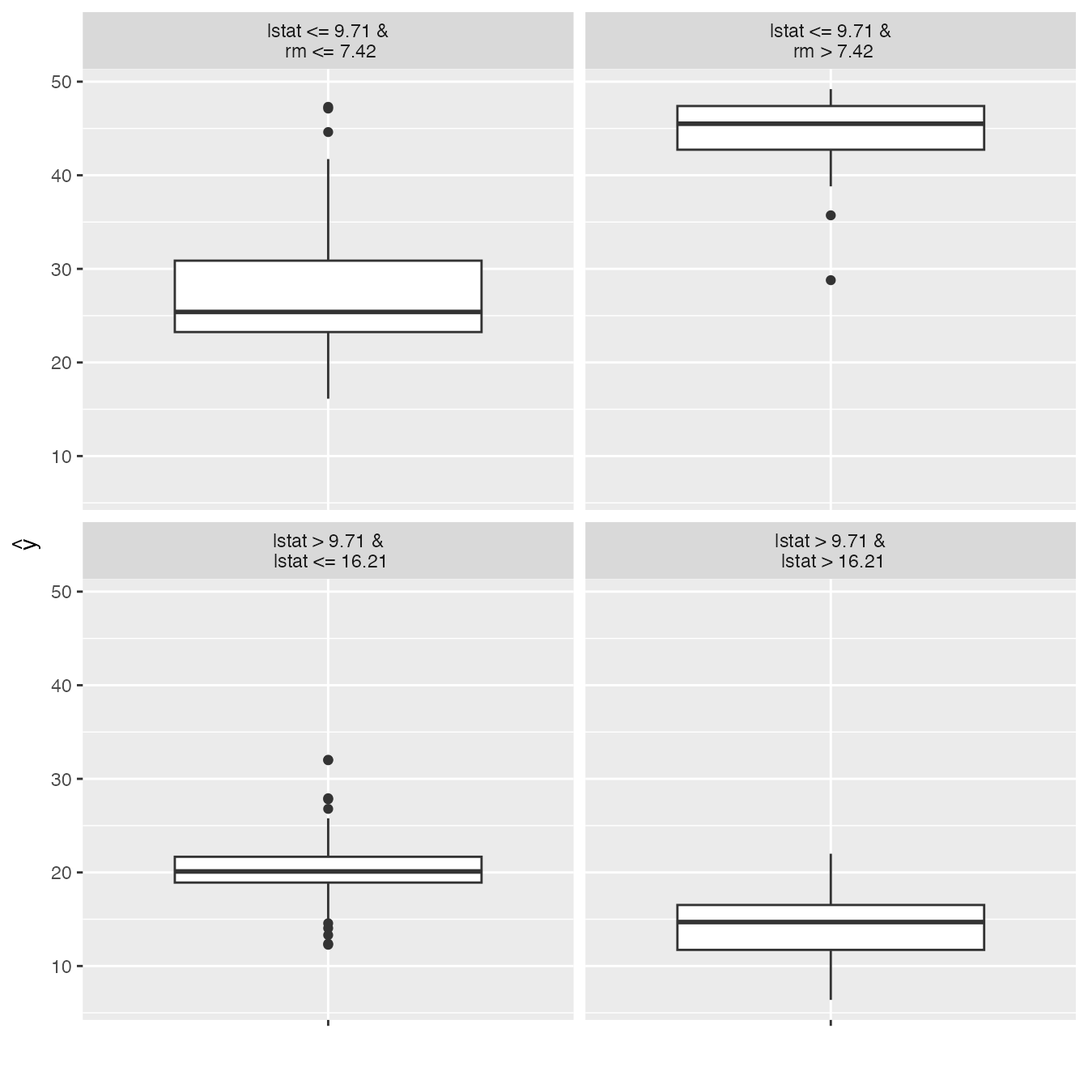
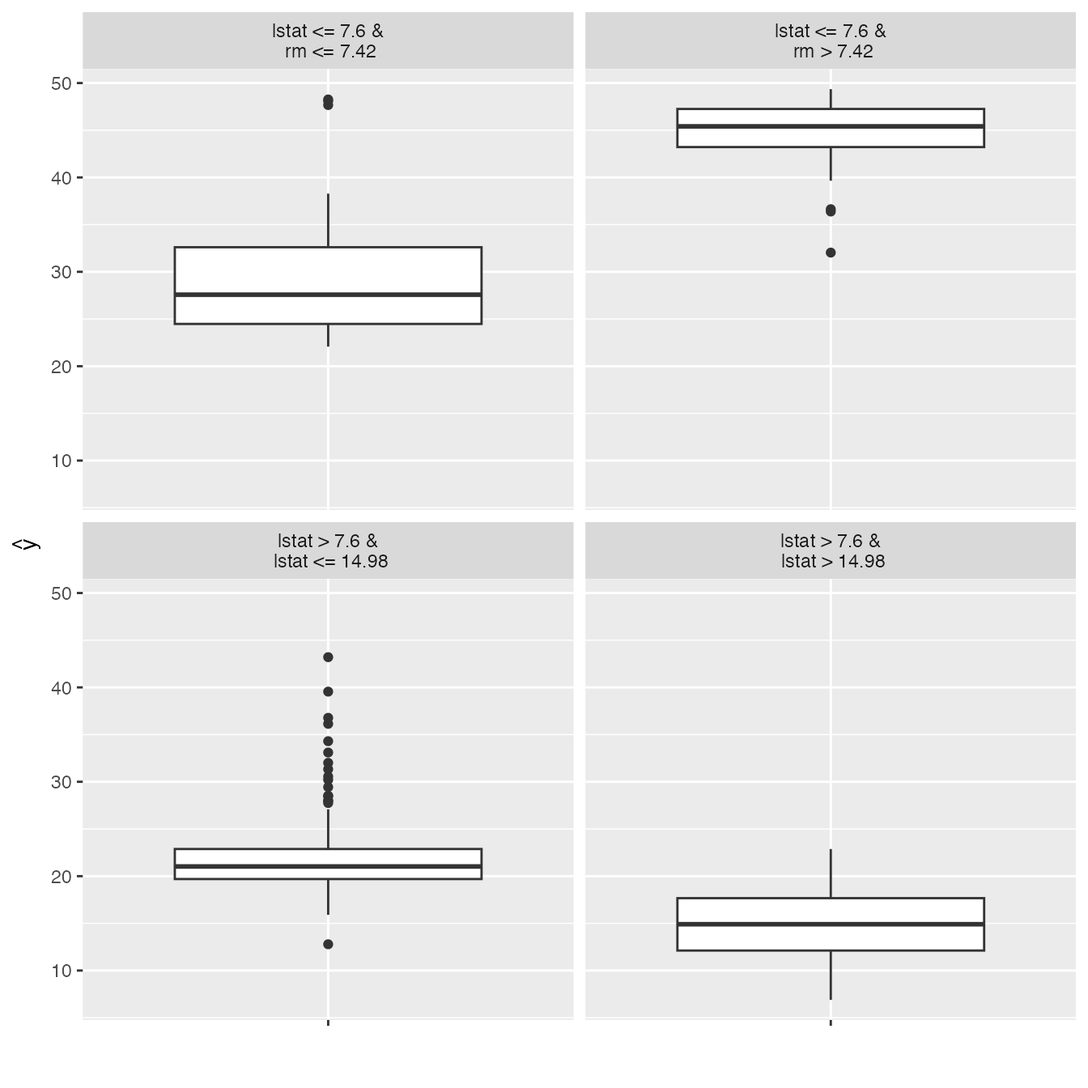
Deploy from Github Actions build 8472959351 [ci skip]
Build URL: https://github.com/christophM/iml/actions/runs/8472959351
Commit: e39a5adad74f868b95115bfc19daf473714562fc

diff --git a/articles/intro.html b/articles/intro.html
@@ -148,7 +148,7 @@ value:</p>
 <span><span class="kw"><a href="https://rdrr.io/r/base/library.html" class="external-link">library</a></span><span class="op">(</span><span class="st"><a href="https://christophm.github.io/iml/" class="external-link">"iml"</a></span><span class="op">)</span></span>
 <span><span class="kw"><a href="https://rdrr.io/r/base/library.html" class="external-link">library</a></span><span class="op">(</span><span class="st"><a href="https://www.stat.berkeley.edu/~breiman/RandomForests/" class="external-link">"randomForest"</a></span><span class="op">)</span></span>
 <span><span class="fu"><a href="https://rdrr.io/r/utils/data.html" class="external-link">data</a></span><span class="op">(</span><span class="st">"Boston"</span>, package <span class="op">=</span> <span class="st">"MASS"</span><span class="op">)</span></span>
-<span><span class="va">rf</span> <span class="op">&lt;-</span> <span class="fu"><a href="https://rdrr.io/pkg/randomForest/man/randomForest.html" class="external-link">randomForest</a></span><span class="op">(</span><span class="va">medv</span> <span class="op">~</span> <span class="va">.</span>, data <span class="op">=</span> <span class="va">Boston</span>, ntree <span class="op">=</span> <span class="fl">50</span><span class="op">)</span></span></code></pre></div>
+<span><span class="va">rf</span> <span class="op">&lt;-</span> <span class="fu"><a href="https://rdrr.io/pkg/randomForest/man/randomForest.html" class="external-link">randomForest</a></span><span class="op">(</span><span class="va">medv</span> <span class="op">~</span> <span class="va">.</span>, data <span class="op">=</span> <span class="va">Boston</span>, ntree <span class="op">=</span> <span class="fl">10</span><span class="op">)</span></span></code></pre></div>
 </div>
 <div class="section level2">
 <h2 id="using-the-iml-predictor-container">Using the iml Predictor() container<a class="anchor" aria-label="anchor" href="#using-the-iml-predictor-container"></a>
@@ -181,19 +181,19 @@ data.frame.</p>
 <div class="sourceCode" id="cb6"><pre class="downlit sourceCode r">
 <code class="sourceCode R"><span><span class="va">imp</span><span class="op">$</span><span class="va">results</span></span></code></pre></div>
 <pre><code><span><span class="co">#&gt;    feature importance.05 importance importance.95 permutation.error</span></span>
-<span><span class="co">#&gt; 1    lstat      4.394480   4.459282      4.740041          4.394662</span></span>
-<span><span class="co">#&gt; 2       rm      3.349928   3.620192      3.715445          3.567732</span></span>
-<span><span class="co">#&gt; 3      nox      1.772047   1.796058      1.833039          1.770032</span></span>
-<span><span class="co">#&gt; 4     crim      1.661024   1.703701      1.738660          1.679013</span></span>
-<span><span class="co">#&gt; 5      dis      1.670726   1.690742      1.694655          1.666242</span></span>
-<span><span class="co">#&gt; 6  ptratio      1.423169   1.426636      1.443533          1.405963</span></span>
-<span><span class="co">#&gt; 7    indus      1.399432   1.416183      1.434735          1.395661</span></span>
-<span><span class="co">#&gt; 8      age      1.346887   1.387961      1.423804          1.367848</span></span>
-<span><span class="co">#&gt; 9      tax      1.352382   1.376506      1.384641          1.356559</span></span>
-<span><span class="co">#&gt; 10   black      1.227135   1.234735      1.235719          1.216842</span></span>
-<span><span class="co">#&gt; 11     rad      1.097253   1.109357      1.131675          1.093281</span></span>
-<span><span class="co">#&gt; 12      zn      1.035018   1.042360      1.043935          1.027256</span></span>
-<span><span class="co">#&gt; 13    chas      1.032211   1.035745      1.047224          1.020736</span></span></code></pre>
+<span><span class="co">#&gt; 1    lstat      3.996140   4.135837      4.317803          4.788590</span></span>
+<span><span class="co">#&gt; 2       rm      2.685506   2.715282      2.889989          3.143832</span></span>
+<span><span class="co">#&gt; 3  ptratio      1.666459   1.728166      1.745227          2.000920</span></span>
+<span><span class="co">#&gt; 4      dis      1.612628   1.667092      1.699770          1.930207</span></span>
+<span><span class="co">#&gt; 5      nox      1.504569   1.576274      1.581755          1.825055</span></span>
+<span><span class="co">#&gt; 6     crim      1.509768   1.545514      1.611800          1.789441</span></span>
+<span><span class="co">#&gt; 7    indus      1.297713   1.337473      1.356928          1.548565</span></span>
+<span><span class="co">#&gt; 8      age      1.279583   1.302343      1.346693          1.507890</span></span>
+<span><span class="co">#&gt; 9      tax      1.220118   1.226805      1.256486          1.420430</span></span>
+<span><span class="co">#&gt; 10   black      1.177398   1.209823      1.232926          1.400768</span></span>
+<span><span class="co">#&gt; 11     rad      1.054973   1.065001      1.070641          1.233089</span></span>
+<span><span class="co">#&gt; 12      zn      1.022191   1.034042      1.039069          1.197244</span></span>
+<span><span class="co">#&gt; 13    chas      1.010353   1.014358      1.018517          1.174453</span></span></code></pre>
 </div>
 <div class="section level2">
 <h2 id="feature-effects">Feature effects<a class="anchor" aria-label="anchor" href="#feature-effects"></a>
@@ -209,7 +209,7 @@ distribution of the ‘lstat’ feature, showing how relevant a region is
 for interpretation (little or no points mean that we should not
 over-interpret this region).</p>
 <div class="sourceCode" id="cb8"><pre class="downlit sourceCode r">
-<code class="sourceCode R"><span><span class="va">ale</span> <span class="op">&lt;-</span> <span class="va"><a href="../reference/FeatureEffect.html">FeatureEffect</a></span><span class="op">$</span><span class="fu">new</span><span class="op">(</span><span class="va">predictor</span>, feature <span class="op">=</span> <span class="st">"lstat"</span><span class="op">)</span></span>
+<code class="sourceCode R"><span><span class="va">ale</span> <span class="op">&lt;-</span> <span class="va"><a href="../reference/FeatureEffect.html">FeatureEffect</a></span><span class="op">$</span><span class="fu">new</span><span class="op">(</span><span class="va">predictor</span>, feature <span class="op">=</span> <span class="st">"lstat"</span>, grid.size <span class="op">=</span> <span class="fl">10</span><span class="op">)</span></span>
 <span><span class="va">ale</span><span class="op">$</span><span class="fu">plot</span><span class="op">(</span><span class="op">)</span></span></code></pre></div>
 <p><img src="intro_files/figure-html/unnamed-chunk-6-1.png" width="672" style="display: block; margin: auto;"></p>
 <p>If we want to compute the partial dependence curves on another
@@ -227,7 +227,7 @@ The interaction measure regards how much of the variance of <span class="math in
 measure is between 0 (no interaction) and 1 (= 100% of variance of <span class="math inline">\(f(x)\)</span> due to interactions). For each
 feature, we measure how much they interact with any other feature:</p>
 <div class="sourceCode" id="cb10"><pre class="downlit sourceCode r">
-<code class="sourceCode R"><span><span class="va">interact</span> <span class="op">&lt;-</span> <span class="va"><a href="../reference/Interaction.html">Interaction</a></span><span class="op">$</span><span class="fu">new</span><span class="op">(</span><span class="va">predictor</span><span class="op">)</span></span></code></pre></div>
+<code class="sourceCode R"><span><span class="va">interact</span> <span class="op">&lt;-</span> <span class="va"><a href="../reference/Interaction.html">Interaction</a></span><span class="op">$</span><span class="fu">new</span><span class="op">(</span><span class="va">predictor</span>, grid.size <span class="op">=</span> <span class="fl">15</span><span class="op">)</span></span></code></pre></div>
 <pre><code><span><span class="co">#&gt; </span></span>
 <span><span class="co">#&gt; Attaching package: 'withr'</span></span></code></pre>
 <pre><code><span><span class="co">#&gt; The following object is masked from 'package:tools':</span></span>
@@ -242,12 +242,12 @@ feature, we measure how much they interact with any other feature:</p>
 <p>We can also specify a feature and measure all it’s 2-way interactions
 with all other features:</p>
 <div class="sourceCode" id="cb15"><pre class="downlit sourceCode r">
-<code class="sourceCode R"><span><span class="va">interact</span> <span class="op">&lt;-</span> <span class="va"><a href="../reference/Interaction.html">Interaction</a></span><span class="op">$</span><span class="fu">new</span><span class="op">(</span><span class="va">predictor</span>, feature <span class="op">=</span> <span class="st">"crim"</span><span class="op">)</span></span>
+<code class="sourceCode R"><span><span class="va">interact</span> <span class="op">&lt;-</span> <span class="va"><a href="../reference/Interaction.html">Interaction</a></span><span class="op">$</span><span class="fu">new</span><span class="op">(</span><span class="va">predictor</span>, feature <span class="op">=</span> <span class="st">"crim"</span>, grid.size <span class="op">=</span> <span class="fl">15</span><span class="op">)</span></span>
 <span><span class="fu"><a href="https://rdrr.io/r/graphics/plot.default.html" class="external-link">plot</a></span><span class="op">(</span><span class="va">interact</span><span class="op">)</span></span></code></pre></div>
 <p><img src="intro_files/figure-html/unnamed-chunk-9-1.png" width="672" style="display: block; margin: auto;"></p>
 <p>You can also plot the feature effects for all features at once:</p>
 <div class="sourceCode" id="cb16"><pre class="downlit sourceCode r">
-<code class="sourceCode R"><span><span class="va">effs</span> <span class="op">&lt;-</span> <span class="va"><a href="../reference/FeatureEffects.html">FeatureEffects</a></span><span class="op">$</span><span class="fu">new</span><span class="op">(</span><span class="va">predictor</span><span class="op">)</span></span>
+<code class="sourceCode R"><span><span class="va">effs</span> <span class="op">&lt;-</span> <span class="va"><a href="../reference/FeatureEffects.html">FeatureEffects</a></span><span class="op">$</span><span class="fu">new</span><span class="op">(</span><span class="va">predictor</span>, grid.size <span class="op">=</span> <span class="fl">10</span><span class="op">)</span></span>
 <span><span class="fu"><a href="https://rdrr.io/r/graphics/plot.default.html" class="external-link">plot</a></span><span class="op">(</span><span class="va">effs</span><span class="op">)</span></span></code></pre></div>
 <p><img src="intro_files/figure-html/unnamed-chunk-10-1.png" width="672" style="display: block; margin: auto;"></p>
 </div>
@@ -275,12 +275,12 @@ interpretable it is.</p>
 <pre><code><span><span class="co">#&gt; Warning in self$predictor$data$match_cols(data.frame(newdata)): Dropping</span></span>
 <span><span class="co">#&gt; additional columns: medv</span></span></code></pre>
 <pre><code><span><span class="co">#&gt;     .y.hat</span></span>
-<span><span class="co">#&gt; 1 27.09989</span></span>
-<span><span class="co">#&gt; 2 27.09989</span></span>
-<span><span class="co">#&gt; 3 27.09989</span></span>
-<span><span class="co">#&gt; 4 27.09989</span></span>
-<span><span class="co">#&gt; 5 27.09989</span></span>
-<span><span class="co">#&gt; 6 27.09989</span></span></code></pre>
+<span><span class="co">#&gt; 1 28.78541</span></span>
+<span><span class="co">#&gt; 2 21.91311</span></span>
+<span><span class="co">#&gt; 3 28.78541</span></span>
+<span><span class="co">#&gt; 4 28.78541</span></span>
+<span><span class="co">#&gt; 5 28.78541</span></span>
+<span><span class="co">#&gt; 6 28.78541</span></span></code></pre>
 </div>
 <div class="section level2">
 <h2 id="explain-single-predictions-with-a-local-model">Explain single predictions with a local model<a class="anchor" aria-label="anchor" href="#explain-single-predictions-with-a-local-model"></a>
@@ -300,9 +300,9 @@ explain the prediction.</p>
 <div class="sourceCode" id="cb30"><pre class="downlit sourceCode r">
 <code class="sourceCode R"><span><span class="va">lime.explain</span><span class="op">$</span><span class="va">results</span></span></code></pre></div>
 <pre><code><span><span class="co">#&gt;               beta x.recoded    effect x.original feature feature.value</span></span>
-<span><span class="co">#&gt; rm       4.4836483     6.575 29.479987      6.575      rm      rm=6.575</span></span>
-<span><span class="co">#&gt; ptratio -0.5244767    15.300 -8.024493       15.3 ptratio  ptratio=15.3</span></span>
-<span><span class="co">#&gt; lstat   -0.4348698     4.980 -2.165652       4.98   lstat    lstat=4.98</span></span></code></pre>
+<span><span class="co">#&gt; rm       4.5149417     6.575 29.685741      6.575      rm      rm=6.575</span></span>
+<span><span class="co">#&gt; ptratio -0.5696891    15.300 -8.716243       15.3 ptratio  ptratio=15.3</span></span>
+<span><span class="co">#&gt; lstat   -0.4592951     4.980 -2.287290       4.98   lstat    lstat=4.98</span></span></code></pre>
 <div class="sourceCode" id="cb32"><pre class="downlit sourceCode r">
 <code class="sourceCode R"><span><span class="fu"><a href="https://rdrr.io/r/graphics/plot.default.html" class="external-link">plot</a></span><span class="op">(</span><span class="va">lime.explain</span><span class="op">)</span></span></code></pre></div>
 <p><img src="intro_files/figure-html/unnamed-chunk-13-1.png" width="672" style="display: block; margin: auto;"></p>
@@ -320,7 +320,7 @@ point, the feature values play a game together, in which they get the
 prediction as a payout. The Shapley value tells us how to fairly
 distribute the payout among the feature values.</p>
 <div class="sourceCode" id="cb34"><pre class="downlit sourceCode r">
-<code class="sourceCode R"><span><span class="va">shapley</span> <span class="op">&lt;-</span> <span class="va"><a href="../reference/Shapley.html">Shapley</a></span><span class="op">$</span><span class="fu">new</span><span class="op">(</span><span class="va">predictor</span>, x.interest <span class="op">=</span> <span class="va">X</span><span class="op">[</span><span class="fl">1</span>, <span class="op">]</span><span class="op">)</span></span>
+<code class="sourceCode R"><span><span class="va">shapley</span> <span class="op">&lt;-</span> <span class="va"><a href="../reference/Shapley.html">Shapley</a></span><span class="op">$</span><span class="fu">new</span><span class="op">(</span><span class="va">predictor</span>, x.interest <span class="op">=</span> <span class="va">X</span><span class="op">[</span><span class="fl">1</span>, <span class="op">]</span>, sample.size <span class="op">=</span> <span class="fl">50</span><span class="op">)</span></span>
 <span><span class="va">shapley</span><span class="op">$</span><span class="fu">plot</span><span class="op">(</span><span class="op">)</span></span></code></pre></div>
 <p><img src="intro_files/figure-html/unnamed-chunk-15-1.png" width="672" style="display: block; margin: auto;"></p>
 <p>We can reuse the object to explain other data points:</p>
@@ -332,13 +332,13 @@ distribute the payout among the feature values.</p>
 <div class="sourceCode" id="cb36"><pre class="downlit sourceCode r">
 <code class="sourceCode R"><span><span class="va">results</span> <span class="op">&lt;-</span> <span class="va">shapley</span><span class="op">$</span><span class="va">results</span></span>
 <span><span class="fu"><a href="https://rdrr.io/r/utils/head.html" class="external-link">head</a></span><span class="op">(</span><span class="va">results</span><span class="op">)</span></span></code></pre></div>
-<pre><code><span><span class="co">#&gt;   feature          phi    phi.var feature.value</span></span>
-<span><span class="co">#&gt; 1    crim -0.030772464 0.88726982  crim=0.02731</span></span>
-<span><span class="co">#&gt; 2      zn -0.009163333 0.01266404          zn=0</span></span>
-<span><span class="co">#&gt; 3   indus -0.412309000 0.65608174    indus=7.07</span></span>
-<span><span class="co">#&gt; 4    chas -0.065604772 0.04865024        chas=0</span></span>
-<span><span class="co">#&gt; 5     nox  0.067133048 0.37635155     nox=0.469</span></span>
-<span><span class="co">#&gt; 6      rm -0.354769984 7.26420349      rm=6.421</span></span></code></pre>
+<pre><code><span><span class="co">#&gt;   feature         phi     phi.var feature.value</span></span>
+<span><span class="co">#&gt; 1    crim  0.02236619  1.91975348  crim=0.02731</span></span>
+<span><span class="co">#&gt; 2      zn -0.01757000  0.17093081          zn=0</span></span>
+<span><span class="co">#&gt; 3   indus -0.54826667  2.34293197    indus=7.07</span></span>
+<span><span class="co">#&gt; 4    chas -0.02603333  0.01361733        chas=0</span></span>
+<span><span class="co">#&gt; 5     nox  0.44874333  1.35829579     nox=0.469</span></span>
+<span><span class="co">#&gt; 6      rm -1.54282444 11.60060925      rm=6.421</span></span></code></pre>
 </div>
   </div>
 

diff --git a/articles/parallel.html b/articles/parallel.html
@@ -142,13 +142,13 @@ get by parallelization.</p>
 <span>  <span class="va"><a href="../reference/FeatureImp.html">FeatureImp</a></span><span class="op">$</span><span class="fu">new</span><span class="op">(</span><span class="va">predictor</span>, loss <span class="op">=</span> <span class="st">"mae"</span><span class="op">)</span></span>
 <span><span class="op">}</span><span class="op">)</span></span>
 <span><span class="co">#&gt; process    real </span></span>
-<span><span class="co">#&gt;   2.12s   2.12s</span></span>
+<span><span class="co">#&gt;   3.03s   3.07s</span></span>
 <span><span class="fu">bench</span><span class="fu">::</span><span class="fu"><a href="http://bench.r-lib.org/reference/bench_time.html" class="external-link">system_time</a></span><span class="op">(</span><span class="op">{</span></span>
 <span>  <span class="fu"><a href="https://future.futureverse.org/reference/plan.html" class="external-link">plan</a></span><span class="op">(</span><span class="st">"callr"</span>, workers <span class="op">=</span> <span class="fl">2</span><span class="op">)</span></span>
 <span>  <span class="va"><a href="../reference/FeatureImp.html">FeatureImp</a></span><span class="op">$</span><span class="fu">new</span><span class="op">(</span><span class="va">predictor</span>, loss <span class="op">=</span> <span class="st">"mae"</span><span class="op">)</span></span>
 <span><span class="op">}</span><span class="op">)</span></span>
 <span><span class="co">#&gt;  process     real </span></span>
-<span><span class="co">#&gt; 548.29ms    4.08s</span></span></code></pre></div>
+<span><span class="co">#&gt; 593.64ms    4.29s</span></span></code></pre></div>
 <p>A little bit of improvement, but not too impressive. Parallelization
 is more useful in the case where the model uses a lot of features or
 where the feature importance computation is repeated more often to get
@@ -156,17 +156,17 @@ more stable results.</p>
 <div class="sourceCode" id="cb5"><pre class="downlit sourceCode r">
 <code class="sourceCode R"><span><span class="fu">bench</span><span class="fu">::</span><span class="fu"><a href="http://bench.r-lib.org/reference/bench_time.html" class="external-link">system_time</a></span><span class="op">(</span><span class="op">{</span></span>
 <span>  <span class="fu"><a href="https://future.futureverse.org/reference/plan.html" class="external-link">plan</a></span><span class="op">(</span><span class="va">sequential</span><span class="op">)</span></span>
-<span>  <span class="va"><a href="../reference/FeatureImp.html">FeatureImp</a></span><span class="op">$</span><span class="fu">new</span><span class="op">(</span><span class="va">predictor</span>, loss <span class="op">=</span> <span class="st">"mae"</span>, n.repetitions <span class="op">=</span> <span class="fl">20</span><span class="op">)</span></span>
+<span>  <span class="va"><a href="../reference/FeatureImp.html">FeatureImp</a></span><span class="op">$</span><span class="fu">new</span><span class="op">(</span><span class="va">predictor</span>, loss <span class="op">=</span> <span class="st">"mae"</span>, n.repetitions <span class="op">=</span> <span class="fl">10</span><span class="op">)</span></span>
 <span><span class="op">}</span><span class="op">)</span></span>
 <span><span class="co">#&gt; process    real </span></span>
-<span><span class="co">#&gt;   8.78s   8.78s</span></span>
+<span><span class="co">#&gt;   4.19s   4.22s</span></span>
 <span></span>
 <span><span class="fu">bench</span><span class="fu">::</span><span class="fu"><a href="http://bench.r-lib.org/reference/bench_time.html" class="external-link">system_time</a></span><span class="op">(</span><span class="op">{</span></span>
 <span>  <span class="fu"><a href="https://future.futureverse.org/reference/plan.html" class="external-link">plan</a></span><span class="op">(</span><span class="st">"callr"</span>, workers <span class="op">=</span> <span class="fl">2</span><span class="op">)</span></span>
-<span>  <span class="va"><a href="../reference/FeatureImp.html">FeatureImp</a></span><span class="op">$</span><span class="fu">new</span><span class="op">(</span><span class="va">predictor</span>, loss <span class="op">=</span> <span class="st">"mae"</span>, n.repetitions <span class="op">=</span> <span class="fl">20</span><span class="op">)</span></span>
+<span>  <span class="va"><a href="../reference/FeatureImp.html">FeatureImp</a></span><span class="op">$</span><span class="fu">new</span><span class="op">(</span><span class="va">predictor</span>, loss <span class="op">=</span> <span class="st">"mae"</span>, n.repetitions <span class="op">=</span> <span class="fl">10</span><span class="op">)</span></span>
 <span><span class="op">}</span><span class="op">)</span></span>
 <span><span class="co">#&gt;  process     real </span></span>
-<span><span class="co">#&gt; 504.55ms    5.95s</span></span></code></pre></div>
+<span><span class="co">#&gt; 572.95ms    5.37s</span></span></code></pre></div>
 <div class="section level3">
 <h3 id="interaction">Interaction<a class="anchor" aria-label="anchor" href="#interaction"></a>
 </h3>
@@ -177,16 +177,16 @@ statistics:</p>
 <div class="sourceCode" id="cb6"><pre class="downlit sourceCode r">
 <code class="sourceCode R"><span><span class="fu">bench</span><span class="fu">::</span><span class="fu"><a href="http://bench.r-lib.org/reference/bench_time.html" class="external-link">system_time</a></span><span class="op">(</span><span class="op">{</span></span>
 <span>  <span class="fu"><a href="https://future.futureverse.org/reference/plan.html" class="external-link">plan</a></span><span class="op">(</span><span class="va">sequential</span><span class="op">)</span></span>
-<span>  <span class="va"><a href="../reference/Interaction.html">Interaction</a></span><span class="op">$</span><span class="fu">new</span><span class="op">(</span><span class="va">predictor</span><span class="op">)</span></span>
+<span>  <span class="va"><a href="../reference/Interaction.html">Interaction</a></span><span class="op">$</span><span class="fu">new</span><span class="op">(</span><span class="va">predictor</span>, grid.size <span class="op">=</span> <span class="fl">15</span><span class="op">)</span></span>
 <span><span class="op">}</span><span class="op">)</span></span>
 <span><span class="co">#&gt; process    real </span></span>
-<span><span class="co">#&gt;     14s     14s</span></span>
+<span><span class="co">#&gt;   6.73s    6.8s</span></span>
 <span><span class="fu">bench</span><span class="fu">::</span><span class="fu"><a href="http://bench.r-lib.org/reference/bench_time.html" class="external-link">system_time</a></span><span class="op">(</span><span class="op">{</span></span>
 <span>  <span class="fu"><a href="https://future.futureverse.org/reference/plan.html" class="external-link">plan</a></span><span class="op">(</span><span class="st">"callr"</span>, workers <span class="op">=</span> <span class="fl">2</span><span class="op">)</span></span>
-<span>  <span class="va"><a href="../reference/Interaction.html">Interaction</a></span><span class="op">$</span><span class="fu">new</span><span class="op">(</span><span class="va">predictor</span><span class="op">)</span></span>
+<span>  <span class="va"><a href="../reference/Interaction.html">Interaction</a></span><span class="op">$</span><span class="fu">new</span><span class="op">(</span><span class="va">predictor</span>, grid.size <span class="op">=</span> <span class="fl">15</span><span class="op">)</span></span>
 <span><span class="op">}</span><span class="op">)</span></span>
-<span><span class="co">#&gt; process    real </span></span>
-<span><span class="co">#&gt;   855ms     12s</span></span></code></pre></div>
+<span><span class="co">#&gt;  process     real </span></span>
+<span><span class="co">#&gt; 545.02ms    6.72s</span></span></code></pre></div>
 </div>
 <div class="section level3">
 <h3 id="feature-effects">Feature Effects<a class="anchor" aria-label="anchor" href="#feature-effects"></a>
@@ -198,13 +198,13 @@ statistics:</p>
 <span>  <span class="va"><a href="../reference/FeatureEffects.html">FeatureEffects</a></span><span class="op">$</span><span class="fu">new</span><span class="op">(</span><span class="va">predictor</span><span class="op">)</span></span>
 <span><span class="op">}</span><span class="op">)</span></span>
 <span><span class="co">#&gt; process    real </span></span>
-<span><span class="co">#&gt;   1.45s   1.45s</span></span>
+<span><span class="co">#&gt;   1.07s   1.08s</span></span>
 <span><span class="fu">bench</span><span class="fu">::</span><span class="fu"><a href="http://bench.r-lib.org/reference/bench_time.html" class="external-link">system_time</a></span><span class="op">(</span><span class="op">{</span></span>
 <span>  <span class="fu"><a href="https://future.futureverse.org/reference/plan.html" class="external-link">plan</a></span><span class="op">(</span><span class="st">"callr"</span>, workers <span class="op">=</span> <span class="fl">2</span><span class="op">)</span></span>
 <span>  <span class="va"><a href="../reference/FeatureEffects.html">FeatureEffects</a></span><span class="op">$</span><span class="fu">new</span><span class="op">(</span><span class="va">predictor</span><span class="op">)</span></span>
 <span><span class="op">}</span><span class="op">)</span></span>
 <span><span class="co">#&gt; process    real </span></span>
-<span><span class="co">#&gt;   2.06s    6.6s</span></span></code></pre></div>
+<span><span class="co">#&gt;   1.91s   6.96s</span></span></code></pre></div>
 </div>
 </div>
   </div>
